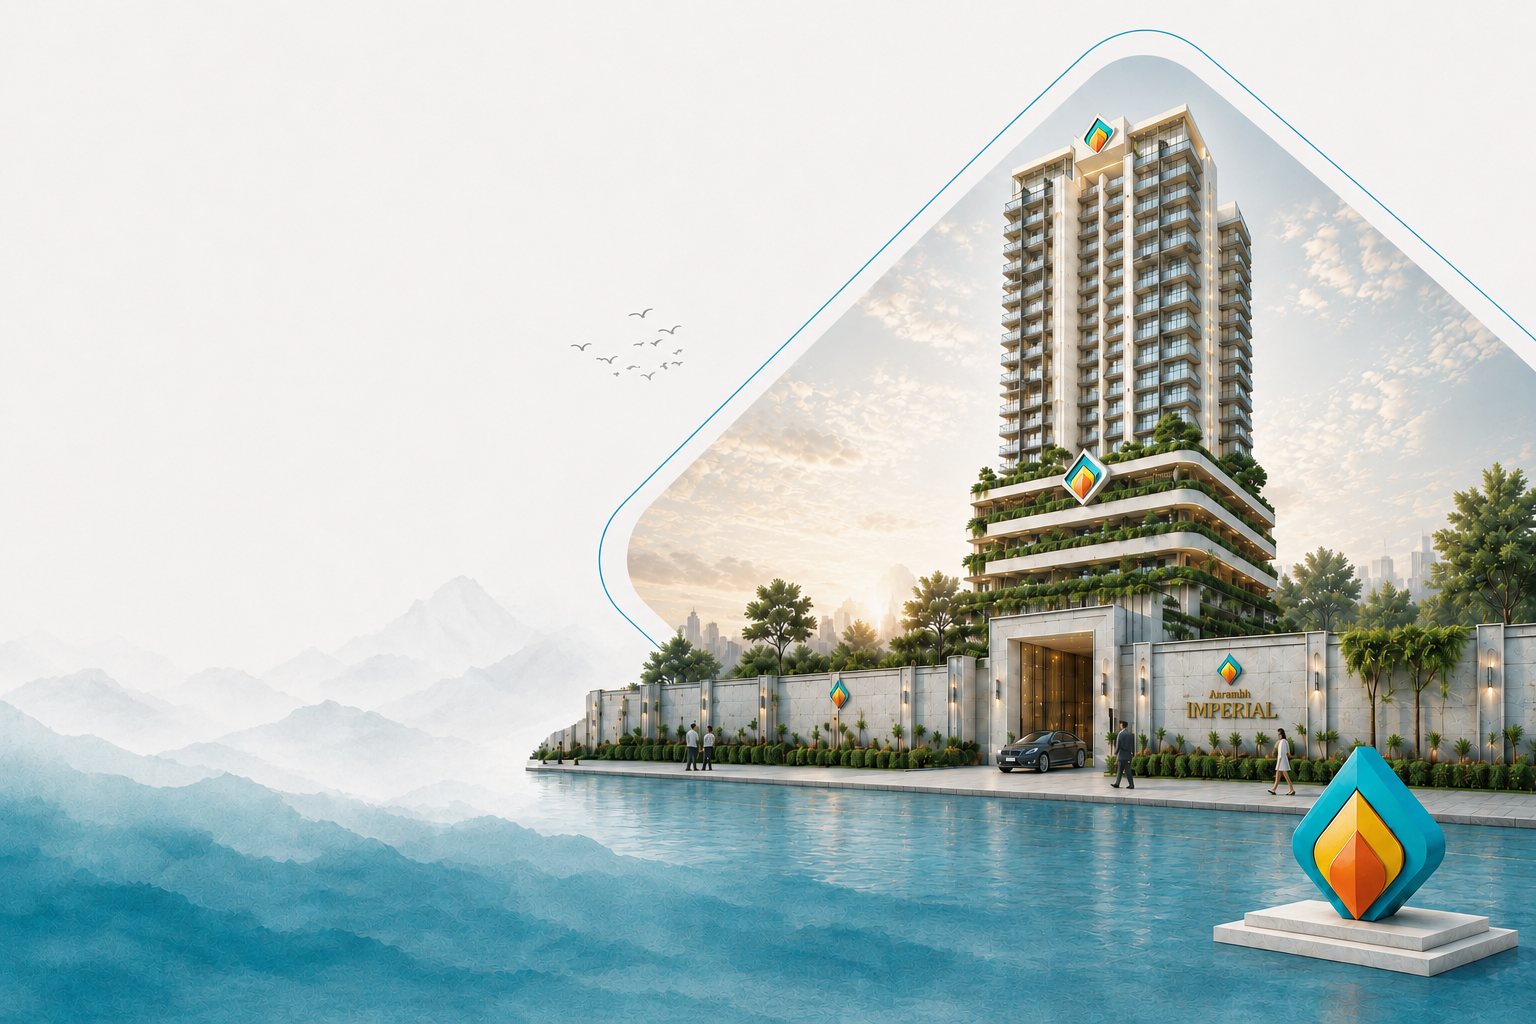
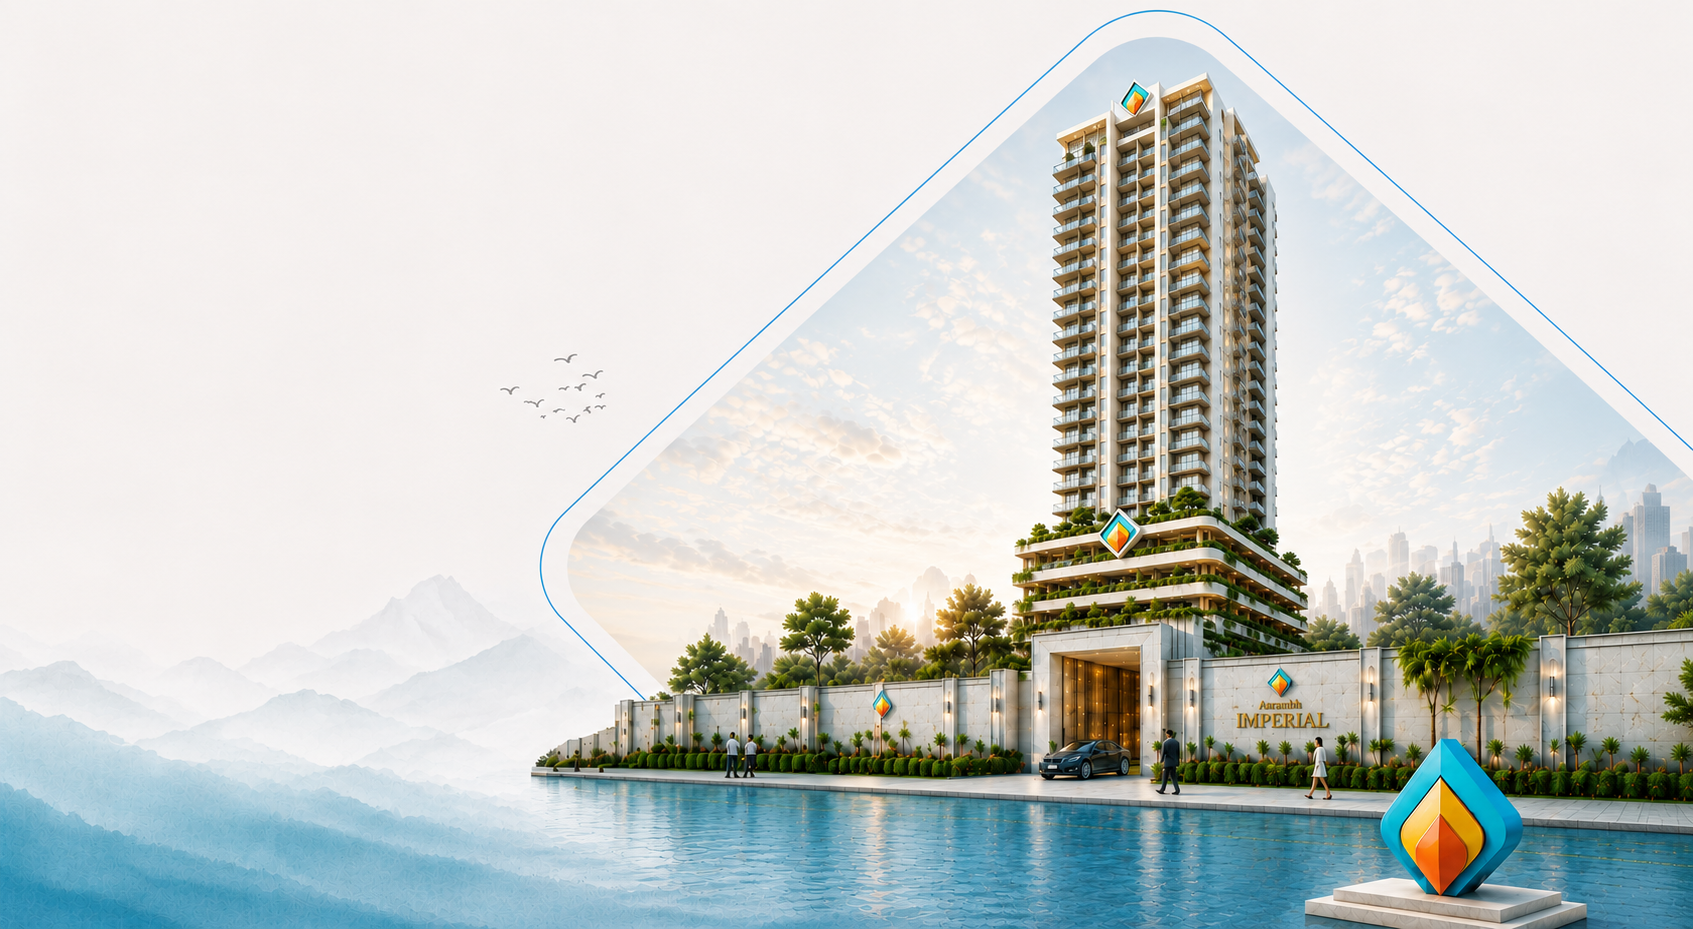
feat(floorplan): updated the images
Also updated the favicon

diff --git a/next/data/content.ts b/next/data/content.ts
@@ -10,7 +10,7 @@ export interface AssetConfig {
 
 export const ASSETS: AssetConfig = {
   logo: "/assets/logo-img.png",
-  heroRender: "/assets/hero-desktop-4.png",
+  heroRender: "/assets/hero-desktop.png",
   heroRenderMobile: "/assets/hero-mobile.png",
   heroVideo: "/assets/loader-sketch.mp4",
   aboutSketch: "/assets/building-frame.png",
@@ -77,8 +77,7 @@ export const FLOOR_TABS: FloorTab[] = [
     title: "The Two Bedroom Residence",
     description:
       "Thoughtfully proportioned interiors with abundant natural light, a flowing living-dining and considered storage — designed for a refined urban life.",
-    image:
-      "https://images.unsplash.com/photo-1721244654394-36a7bc2da288?crop=entropy&cs=srgb&fm=jpg&ixid=M3w3NDQ2MzR8MHwxfHNlYXJjaHw0fHxhcmNoaXRlY3R1cmFsJTIwZmxvb3IlMjBwbGFuJTIwYmx1ZXByaW50fGVufDB8fHx8MTc4MjQwODAwMnww&ixlib=rb-4.1.0&q=85",
+    image: "/assets/plans/floor-plan.webp",
     meta: [
       { label: "Carpet Area", value: "701 – 740 sq.ft." },
       { label: "Configuration", value: "2 BHK" },
@@ -95,8 +94,7 @@ export const FLOOR_TABS: FloorTab[] = [
     title: "The Three Bedroom Residence",
     description:
       "Expansive, light-filled homes with generous balconies and a master suite — crafted for families that value space, privacy and elegance.",
-    image:
-      "https://images.unsplash.com/photo-1721244653721-bc681b2dfd27?crop=entropy&cs=srgb&fm=jpg&ixid=M3w3NDQ2MzR8MHwxfHNlYXJjaHwzfHxhcmNoaXRlY3R1cmFsJTIwZmxvb3IlMjBwbGFuJTIwYmx1ZXByaW50fGVufDB8fHx8MTc4MjQwODAwMnww&ixlib=rb-4.1.0&q=85",
+    image: "/assets/plans/floor-plan.webp",
     meta: [
       { label: "Carpet Area", value: "892 – 1,189 sq.ft." },
       { label: "Configuration", value: "Compact 3 BHK / 3 BHK" },
@@ -113,8 +111,7 @@ export const FLOOR_TABS: FloorTab[] = [
     title: "Typical Floor Layout",
     description:
       "A considered floor layout — corner apartments, cross-ventilation, and column-free living rooms that flow into private decks overlooking Mulund.",
-    image:
-      "https://images.pexels.com/photos/4458210/pexels-photo-4458210.jpeg?auto=compress&cs=tinysrgb&dpr=2&h=650&w=940",
+    image: "/assets/plans/floor-plan.webp",
     meta: [
       { label: "Apartments / Floor", value: "4" },
       { label: "Towers", value: "1 Iconic Tower" },
@@ -130,16 +127,17 @@ export const FLOOR_TABS: FloorTab[] = [
     kind: "gallery",
     title: "Multi-Level Podium Parking",
     description:
-      "Five-level secure podium parking with dedicated bays for every residence, EV-ready charging points and intuitive wayfinding throughout.",
+      "Multi-level secure podium parking with dedicated bays for every residence, EV-ready charging points and intuitive wayfinding throughout.",
     images: [
       {
-        url: "https://images.unsplash.com/photo-1721244654392-9c912a6eb236?crop=entropy&cs=srgb&fm=jpg&ixid=M3w3NDQ2MzR8MHwxfHNlYXJjaHwyfHxhcmNoaXRlY3R1cmFsJTIwZmxvb3IlMjBwbGFuJTIwYmx1ZXByaW50fGVufDB8fHx8MTc4MjQwODAwMnww&ixlib=rb-4.1.0&q=85",
+        url: "/assets/plans/podium.webp",
         label: "Podium Level 1",
       },
       {
-        url: "https://images.pexels.com/photos/4458205/pexels-photo-4458205.jpeg?auto=compress&cs=tinysrgb&dpr=2&h=650&w=940",
+        url: "/assets/plans/parking.webp",
         label: "Podium Level 2",
       },
+      /*
       {
         url: "https://images.unsplash.com/photo-1545179605-1296651e9d43?auto=format&fit=crop&w=900&q=70",
         label: "Podium Level 3",
@@ -152,6 +150,7 @@ export const FLOOR_TABS: FloorTab[] = [
         url: "https://images.unsplash.com/photo-1590674899484-d5640e854abe?auto=format&fit=crop&w=900&q=70",
         label: "Podium Level 5",
       },
+      */
     ],
   },
 ];
@@ -376,6 +375,6 @@ export const CONTACT: ContactConfig = {
   email: "[email redacted]",
   address: "V.P. Road & Kasturba Rd, Mulund West, Mumbai 400080",
   whatsapp:
-    "https://wa.me/919967279772?text=Hi%2C%20I%27m%20interested%20in%20Aarambh%20Imperial",
+    "https://wa.me/919967279772?text=Hello%2C%20I%20visited%20your%20website%20and%20I%27m%20interested%20in%20exploring%20your%20real%20estate%20offerings.%20I%20would%20appreciate%20it%20if%20you%20could%20share%20the%20project%20details%2C%20pricing%2C%20floor%20plans%2C%20and%20available%20inventory.%20Please%20let%20me%20know%20a%20convenient%20time%20to%20discuss%20further.%20Thank%20you.",
   rera: "RERA Reg. No. : -",
 };

diff --git a/next/components/About.tsx b/next/components/About.tsx
@@ -231,7 +231,7 @@ const About: React.FC = () => {
                 src="/assets/mission-vision/mission-vision-mobile.png"
                 alt=""
                 fill
-                sizes="100vw"
+                sizes="(max-width: 768px) 100vw, 768px"
                 className="object-cover object-center"
                 priority
                 aria-hidden
@@ -244,7 +244,7 @@ const About: React.FC = () => {
                 src="/assets/mission-vision/mission-vision-desktop.png"
                 alt=""
                 fill
-                sizes="100vw"
+                sizes="(max-width: 768px) 100vw, (max-width: 1200px) 90vw, 1200px"
                 className="object-cover object-center border"
                 priority
                 aria-hidden

diff --git a/app/layout.tsx b/app/layout.tsx
@@ -21,7 +21,7 @@ export const metadata: Metadata = {
   keywords:
     "Aarambh Imperial, Mulund West flats, 2BHK 3BHK Mumbai, premium residences Mulund, Aarambh builder Mumbai",
   icons: {
-    icon: "/assets/favicon.ico",
+    icon: "/assets/favicon-150x150.png",
   },
   openGraph: {
     title: "Aarambh Imperial — Premium Residences in Mulund West, Mumbai",

diff --git a/app/page.tsx b/app/page.tsx
@@ -15,7 +15,7 @@ import WhatsAppFloat from '@/next/components/WhatsAppFloat'
 // ─── SITE LOADER TOGGLE ──────────────────────────────────────────────────────
 // Set to `true` to show the cinematic intro video on page load.
 // Set to `false` to skip it entirely.
-const ENABLE_SITE_LOADER = false
+const ENABLE_SITE_LOADER = true
 
 // ─── TYPES & CONSTANTS ───────────────────────────────────────────────────────
 